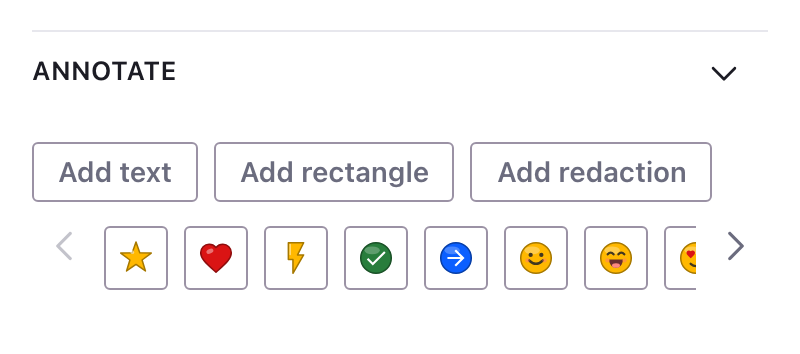
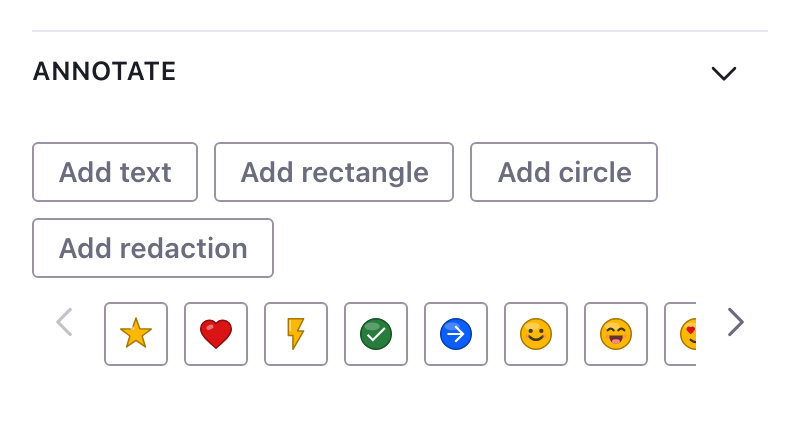
Add a circle annotation and route the last units through the translations

diff --git a/src/components/Annotations.a11y.test.tsx b/src/components/Annotations.a11y.test.tsx
@@ -473,11 +473,12 @@ describe('Annotations, filters, and layers', () => {
 
 		addText.focus();
 
-		// Add text, Add rectangle, Add redaction, then the stickers.
+		// Add text, Add rectangle, Add circle, Add redaction, then the
+		// stickers.
 
 		fireEvent.keyDown(addText, {key: 'ArrowRight'});
 
-		for (let step = 0; step < 2; step++) {
+		for (let step = 0; step < 3; step++) {
 			fireEvent.keyDown(document.activeElement as Element, {
 				key: 'ArrowRight',
 			});
@@ -566,6 +567,34 @@ describe('Annotations, filters, and layers', () => {
 		expect(container.querySelectorAll('.object-handle')).toHaveLength(9);
 
 		expect(await axe(container)).toHaveNoViolations();
+	});
+
+	it('adds a circle that behaves like the rectangle', () => {
+		const {container} = render(<AnnotationHarness />);
+
+		fireEvent.click(screen.getByRole('button', {name: 'Add circle'}));
+
+		expect(container.querySelector('ellipse')).toBeInTheDocument();
+
+		// It is a box like any other: the numeric properties drive it, and
+		// the ellipse fills that box.
+
+		const width = screen.getByLabelText('Width');
+
+		fireEvent.change(width, {target: {value: '400'}});
+		fireEvent.keyDown(width, {key: 'Enter'});
+
+		expect(container.querySelector('ellipse')).toHaveAttribute(
+			'rx',
+			'200'
+		);
+
+		// Named once on the stage and once in the layers list, like every
+		// other annotation.
+
+		expect(screen.getAllByRole('button', {name: 'Circle'})).toHaveLength(
+			2
+		);
 	});
 
 	it('centers a new annotation on the crop, not on the image', () => {

diff --git a/src/i18n/en.ts b/src/i18n/en.ts
@@ -9,6 +9,7 @@
  */
 export default {
 	add: 'Add',
+	'add-circle': 'Add circle',
 	'add-rectangle': 'Add rectangle',
 	'add-redaction': 'Add redaction',
 	'add-sticker-arrow': 'Add arrow sticker',
@@ -25,6 +26,7 @@ export default {
 	'adjustment-set': '{0} set to {1}',
 	adjustments: 'Adjustments',
 	'adjustments-reset': 'All adjustments reset',
+	'angle-degrees': '{0}°',
 	'angle-set': 'Straighten set to {0} degrees',
 	annotate: 'Annotate',
 	'annotation-added': '{0} added to the center of the crop area',
@@ -124,6 +126,7 @@ export default {
 	opacity: 'Opacity',
 	'open-an-image': 'Open an image from your device',
 	'open-sample-image': 'Edit sample image',
+	'overlay-circle-label': 'Circle',
 	'overlay-instructions':
 		'Use the arrow keys to move by 1 pixel, hold Shift for 10 pixels. Press Enter to edit the properties, Delete to remove.',
 	'overlay-redact-label': 'Redacted area',
@@ -179,6 +182,8 @@ export default {
 	'text-content': 'Text',
 	undo: 'Undo',
 	'undo-done': 'Undo: {0}',
+	'unit-degrees': '°',
+	'unit-percent': '%',
 	'use-dark-theme': 'Switch to the dark theme',
 	'use-light-theme': 'Switch to the light theme',
 	width: 'Width',
@@ -191,4 +196,5 @@ export default {
 	'zoom-in': 'Zoom in',
 	'zoom-level': 'Zoom {0}%',
 	'zoom-out': 'Zoom out',
+	'zoom-percent': '{0}%',
 } as Record<string, string>;

diff --git a/src/components/AnnotatePanel.tsx b/src/components/AnnotatePanel.tsx
@@ -353,6 +353,29 @@ export function AnnotatePanel({
 		focusOverlay(id);
 	};
 
+	const addCircle = () => {
+		const id = nextId('circle');
+
+		const size = Math.round(Math.min(area.width, area.height) * 0.2);
+
+		dispatch({
+			overlay: {
+				color: '#0b5fff',
+				height: size,
+				id,
+				kind: 'circle',
+				width: size,
+				x: Math.round(centerX - size / 2),
+				y: Math.round(centerY - size / 2),
+			},
+			type: 'add-overlay',
+		});
+
+		onAnnounce(t('annotation-added', t('overlay-circle-label')));
+
+		focusOverlay(id);
+	};
+
 	const addRedaction = () => {
 		const id = nextId('redact');
 
@@ -423,6 +446,17 @@ export function AnnotatePanel({
 						size="sm"
 					>
 						{t('add-rectangle')}
+					</ClayButton>
+				)}
+
+				{tools.includes('circle') && (
+					<ClayButton
+						{...rovingProps(toolIndex('circle'))}
+						displayType="secondary"
+						onClick={addCircle}
+						size="sm"
+					>
+						{t('add-circle')}
 					</ClayButton>
 				)}
 

diff --git a/src/imaging/overlayShapes.tsx b/src/imaging/overlayShapes.tsx
@@ -460,6 +460,7 @@ export function overlayBounds(overlay: Overlay): {
 } {
 	switch (overlay.kind) {
 		case 'redact':
+		case 'circle':
 		case 'shape':
 			return {
 				height: overlay.height,
@@ -520,6 +521,9 @@ export function overlayLabel(overlay: Overlay): string {
 	switch (overlay.kind) {
 		case 'redact':
 			return t('overlay-redact-label');
+
+		case 'circle':
+			return t('overlay-circle-label');
 
 		case 'shape':
 			return t('overlay-shape-label');
@@ -644,6 +648,17 @@ function renderOverlayNode(overlay: Overlay, redactSource?: RedactSource) {
 	switch (overlay.kind) {
 		case 'redact':
 			return <RedactBlock overlay={overlay} source={redactSource} />;
+
+		case 'circle':
+			return (
+				<ellipse
+					cx={overlay.x + overlay.width / 2}
+					cy={overlay.y + overlay.height / 2}
+					fill={overlay.color}
+					rx={overlay.width / 2}
+					ry={overlay.height / 2}
+				/>
+			);
 
 		case 'shape':
 			return (

diff --git a/src/state/types.ts b/src/state/types.ts
@@ -64,6 +64,18 @@ export interface TextOverlay {
 	y: number;
 }
 
+export interface CircleOverlay {
+	color: string;
+	height: number;
+	id: string;
+	kind: 'circle';
+	opacity?: number;
+	rotation?: number;
+	width: number;
+	x: number;
+	y: number;
+}
+
 export interface ShapeOverlay {
 	color: string;
 	height: number;
@@ -120,6 +132,7 @@ export interface RedactOverlay {
 
 export type Overlay =
 	| RedactOverlay
+	| CircleOverlay
 	| ShapeOverlay
 	| StickerOverlay
 	| TextOverlay;
@@ -130,8 +143,12 @@ export type Overlay =
  */
 export function isBoxOverlay(
 	overlay: Overlay
-): overlay is RedactOverlay | ShapeOverlay {
-	return overlay.kind === 'redact' || overlay.kind === 'shape';
+): overlay is CircleOverlay | RedactOverlay | ShapeOverlay {
+	return (
+		overlay.kind === 'circle' ||
+		overlay.kind === 'redact' ||
+		overlay.kind === 'shape'
+	);
 }
 
 /**

diff --git a/e2e/m3-annotate.spec.ts b/e2e/m3-annotate.spec.ts
@@ -51,12 +51,12 @@ test('keyboard-only annotation journey', async ({page}) => {
 
 	// Add a star sticker from the panel.
 
-	// The Annotate panel is one roving tab stop: enter at Add text, then
-	// arrow to the star sticker.
+	// The arrows walk the annotate group as one sequence: enter at Add text
+	// and step past the shape tools to the first sticker.
 
 	await tabUntil(page, 'Add text');
 
-	for (let step = 0; step < 3; step++) {
+	for (let step = 0; step < 4; step++) {
 		await page.keyboard.press('ArrowRight');
 	}
 
@@ -83,7 +83,7 @@ test('keyboard-only annotation journey', async ({page}) => {
 
 	await tabUntil(page, 'Add star sticker');
 
-	for (let step = 0; step < 3; step++) {
+	for (let step = 0; step < 4; step++) {
 		await page.keyboard.press('ArrowLeft');
 	}
 

diff --git a/website/index.html b/website/index.html
@@ -263,7 +263,10 @@
 									Text, with three font families, size, colour, and
 									editing in place on the stage
 								</li>
-								<li>Rectangles, freely resizable in any direction</li>
+								<li>
+									Rectangles and circles, freely resizable in any
+									direction
+								</li>
 								<li>
 									Redactions that pixelate for real, in four block sizes
 								</li>
@@ -916,7 +919,7 @@
 								class="window"
 								src="screenshots/mobile-stickers.png"
 									width="800"
-									height="354"
+									height="430"
 									style="max-width: min(100%, 400px)"
 								alt="The Annotate panel on a narrow screen: the sticker buttons in a single horizontal row with paging arrows."
 							/>

diff --git a/src/components/LayersPanel.tsx b/src/components/LayersPanel.tsx
@@ -265,7 +265,7 @@ function LayerProperties({dispatch, onAnnounce, overlay}: LayerPropertiesProps) 
 					max={100}
 					min={0}
 					onCommit={(opacity) => commitPatch({opacity})}
-					suffix="%"
+					suffix={t('unit-percent')}
 					value={overlay.opacity ?? 100}
 				/>
 
@@ -275,7 +275,7 @@ function LayerProperties({dispatch, onAnnounce, overlay}: LayerPropertiesProps) 
 					max={360}
 					min={-360}
 					onCommit={(rotation) => commitPatch({rotation})}
-					suffix="°"
+					suffix={t('unit-degrees')}
 					value={overlay.rotation ?? 0}
 				/>
 

diff --git a/src/editorConfig.ts b/src/editorConfig.ts
@@ -14,7 +14,12 @@ import {
 
 export type AdjustmentKey = keyof Adjustments;
 
-export type AnnotateTool = 'rectangle' | 'redaction' | 'stickers' | 'text';
+export type AnnotateTool =
+	| 'circle'
+	| 'rectangle'
+	| 'redaction'
+	| 'stickers'
+	| 'text';
 
 export const ADJUSTMENT_KEYS: AdjustmentKey[] = [
 	'brightness',
@@ -27,6 +32,7 @@ export const ADJUSTMENT_KEYS: AdjustmentKey[] = [
 export const ANNOTATE_TOOLS: AnnotateTool[] = [
 	'text',
 	'rectangle',
+	'circle',
 	'redaction',
 	'stickers',
 ];

diff --git a/src/components/CropPanel.tsx b/src/components/CropPanel.tsx
@@ -190,7 +190,7 @@ export function CropPanel({
 						<label htmlFor="crop-angle">{t('straighten')}</label>
 
 					<span aria-hidden="true" className="editor-slider-value">
-						{angle}&deg;
+						{t('angle-degrees', angle)}
 					</span>
 
 					{angle !== 0 && (

diff --git a/src/components/BottomBar.tsx b/src/components/BottomBar.tsx
@@ -227,7 +227,7 @@ export function BottomBar({
 				/>
 
 				<span className="editor-zoom-level">
-					{Math.round(zoom * 100)}%
+					{t('zoom-percent', Math.round(zoom * 100))}
 				</span>
 
 				<ClayButtonWithIcon

diff --git a/README.md b/README.md
@@ -47,7 +47,7 @@ complete editor.
 | Key | `false` | Object |
 | --- | --- | --- |
 | `adjustments` | hides the panel | `sliders`: any of brightness, contrast, saturation, shadows, highlights |
-| `annotate` | hides the panel and the layers list | `tools`: text, rectangle, redaction, stickers · `stickers`: any of the 10 shapes |
+| `annotate` | hides the panel and the layers list | `tools`: text, rectangle, circle, redaction, stickers · `stickers`: any of the 10 shapes |
 | `crop` | hides the panel, the on-stage marquee and the ratio control | `ratios`: which presets to offer · `rotate`: the quarter-turn and flip buttons · `straighten`: the angle slider |
 | `filters` | hides the gallery | `presets`: any of the 19 looks |
 
